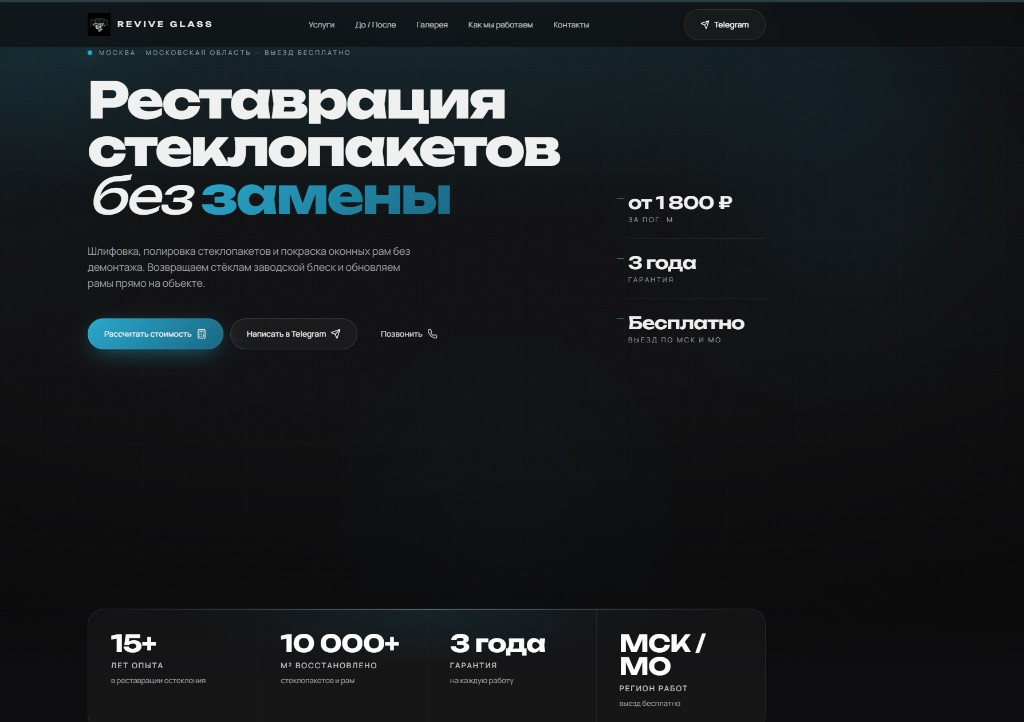
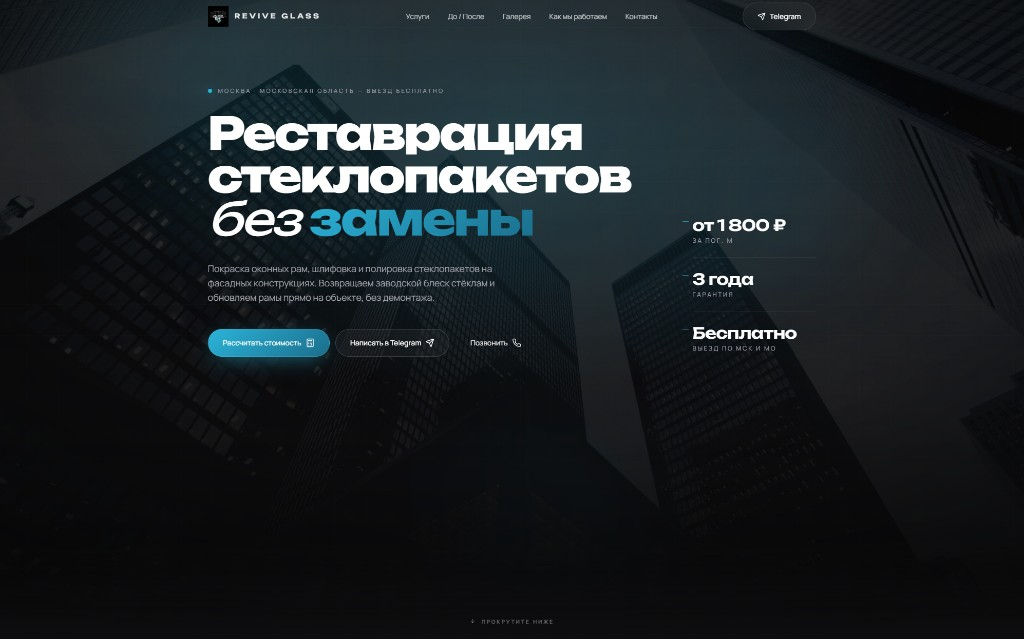
Обновить превью hero: фото фасада вместо тёмного фона без картинки.

diff --git a/src/components/sections/Hero.tsx b/src/components/sections/Hero.tsx
@@ -73,22 +73,22 @@ export default function Hero() {
           style={{
             backgroundImage: "url('/images/pdf/pdf-bg-glass-facade.jpg')",
             backgroundSize: "cover",
-            backgroundPosition: "center",
-            filter: "saturate(0.7) contrast(1.05) brightness(0.55)",
+            backgroundPosition: "center 35%",
+            filter: "saturate(0.75) contrast(1.08) brightness(0.58)",
           }}
         />
         <motion.div
           className="absolute inset-0"
           style={{
             background:
-              "linear-gradient(180deg, rgba(8,8,10,0.55) 0%, rgba(14,14,16,0.7) 45%, rgba(14,14,16,0.92) 88%, #0E0E10 100%)",
+              "linear-gradient(180deg, rgba(8,8,10,0.45) 0%, rgba(14,14,16,0.62) 50%, rgba(14,14,16,0.9) 88%, #0E0E10 100%)",
           }}
         />
         <div
           className="absolute inset-0"
           style={{
             background:
-              "radial-gradient(60% 60% at 50% 25%, rgba(43,179,217,0.18) 0%, transparent 60%)",
+              "radial-gradient(55% 55% at 50% 22%, rgba(43,179,217,0.12) 0%, transparent 58%)",
           }}
         />
       </motion.div>
@@ -99,7 +99,7 @@ export default function Hero() {
 
       <motion.div
         aria-hidden
-        className="absolute inset-0 -z-10 bg-grid opacity-[0.18] mask-fade-b"
+        className="absolute inset-0 -z-10 bg-grid opacity-[0.06] mask-fade-b"
       />
 
       <NoiseOverlay opacity={0.05} blend="overlay" />
@@ -109,7 +109,7 @@ export default function Hero() {
         className="pointer-events-none absolute inset-0 -z-10"
         style={{
           background:
-            "radial-gradient(ellipse 100% 70% at 50% 35%, transparent 50%, rgba(0,0,0,0.4) 85%, rgba(0,0,0,0.75) 100%)",
+            "radial-gradient(ellipse 100% 70% at 50% 35%, transparent 52%, rgba(0,0,0,0.32) 85%, rgba(0,0,0,0.62) 100%)",
         }}
       />
 

diff --git a/README.md b/README.md
@@ -44,7 +44,7 @@
 
 | Раздел | Что внутри |
 |--------|------------|
-| **Hero** | Видеофон процесса работ, CTA «Рассчитать» / Telegram / звонок |
+| **Hero** | Фото фасада зданий, CTA «Рассчитать» / Telegram / звонок |
 | **Услуги** | Покраска рам · реставрация стекла — с фото результатов |
 | **До / После** | 6 кейсов, drag-слайдер «Было → Стало» |
 | **Галерея** | До/После · Процесс · Готовый результат · Видео |
@@ -99,7 +99,6 @@ public/
 │   ├── gallery/          # постеры для видео
 │   └── pdf/              # фото бригады и фасада с объектов
 └── videos/
-    ├── work-process-01.mp4      # фон Hero
     ├── work-process-02.mp4      # галерея
     └── before-after-video-01.mp4  # галерея
 ```